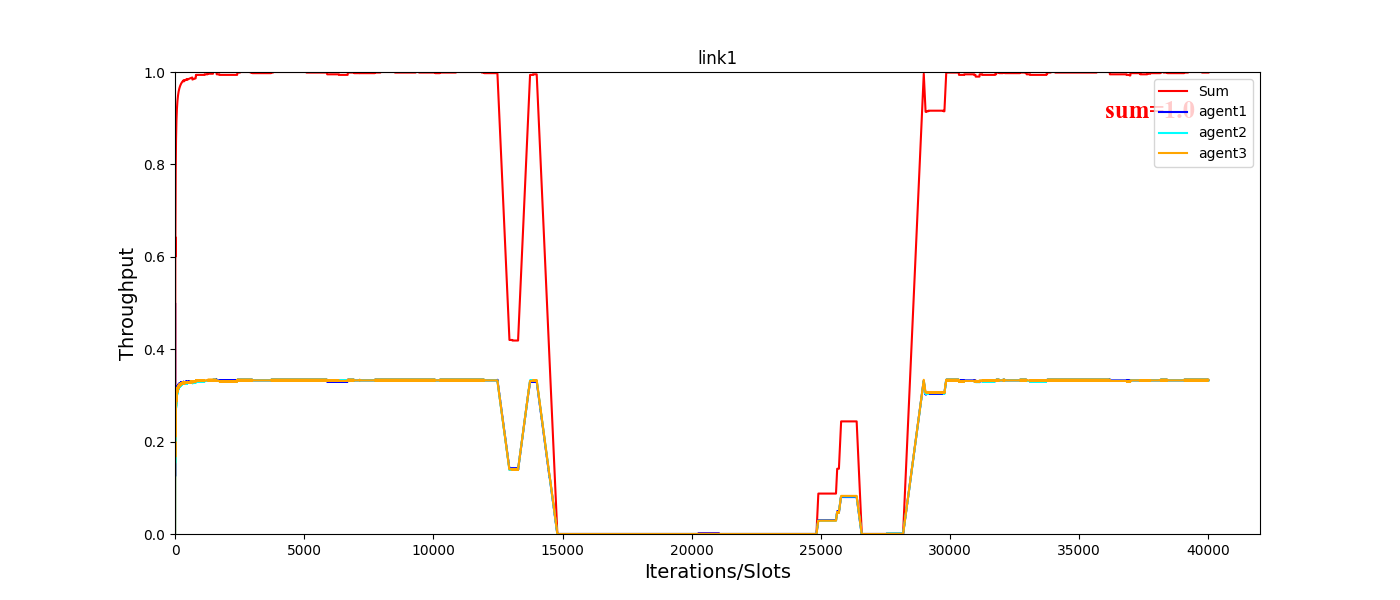
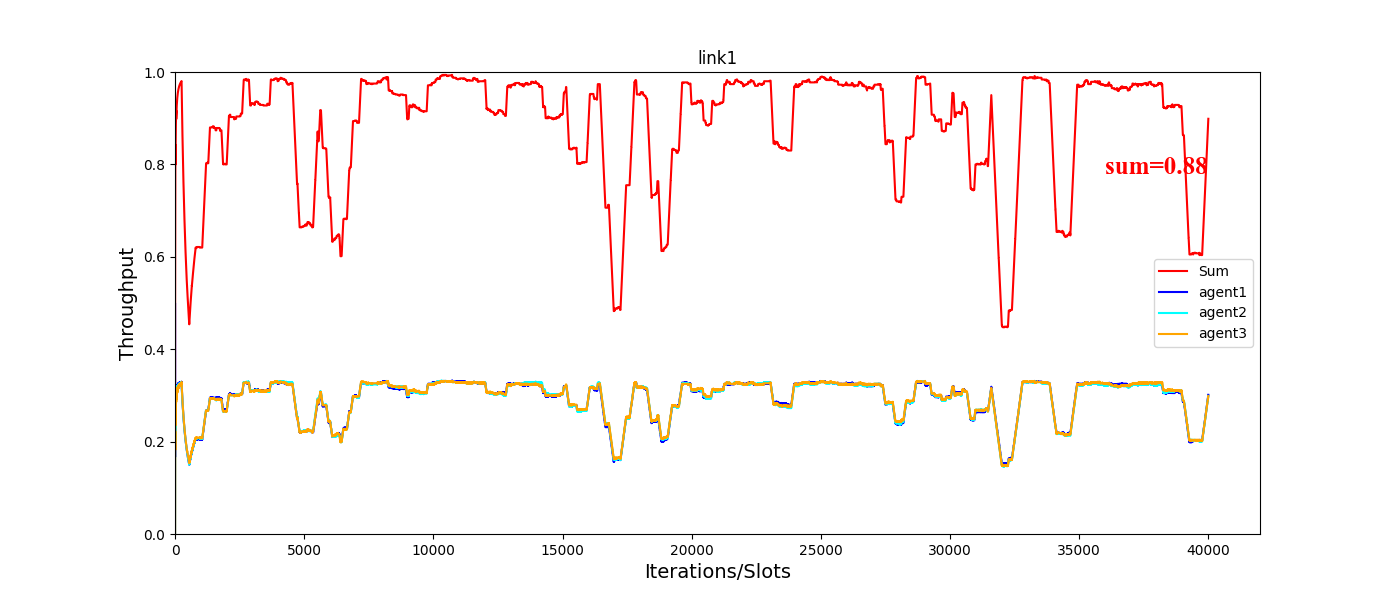
update

diff --git a/agent.py b/agent.py
@@ -30,8 +30,8 @@ class Agent: # 训练使用MADDPG，测试时只需要使用actor而不需要cri
     def normed_d2lt(self):
         ret = [0.0, 0.0]
         sum = self.D2LT[0] + self.D2LT[1]
-        ret[0] = self.D2LT[0] / (sum + 1e-12)
-        ret[1] = self.D2LT[1] / (sum + 1e-12)
+        ret[0] = self.D2LT[0] / (sum + 1e-9)
+        ret[1] = self.D2LT[1] / (sum + 1e-9)
         return ret
     
     
@@ -49,10 +49,10 @@ class Agent: # 训练使用MADDPG，测试时只需要使用actor而不需要cri
         elif self.last_action[1] == 1: # 时隙开始时，发送了消息
             if link_ret['occupy_id'] == self.id: # 自己发送成功
                 link_obs = self.STATES[0]
-            elif link_ret['occupy_id'] > 0:
-                link_obs = self.STATES[1] # 别人发送成功
-            else:
+            elif link_ret['occupy_id'] < 0:
                 link_obs = self.STATES[2] # 碰撞
+            else:
+                exit()
         self.states_mem = np.concatenate([self.states_mem[6:], link_obs, self.normed_d2lt])
             
             
@@ -64,7 +64,7 @@ class Agent: # 训练使用MADDPG，测试时只需要使用actor而不需要cri
         if explore:
             action = gumbel_softmax(action)
         else:
-            action = onehot_from_logits(action, eps=0.01)
+            action = onehot_from_logits(action, eps=0.0)
         # detach(): 返回一个新的Tensor，但返回的结果是没有梯度的;numpy()将tensor转变为数组；[0]相当于去掉一个[]
         self.last_action = action.detach().cpu().numpy()[0]
         return self.last_action
